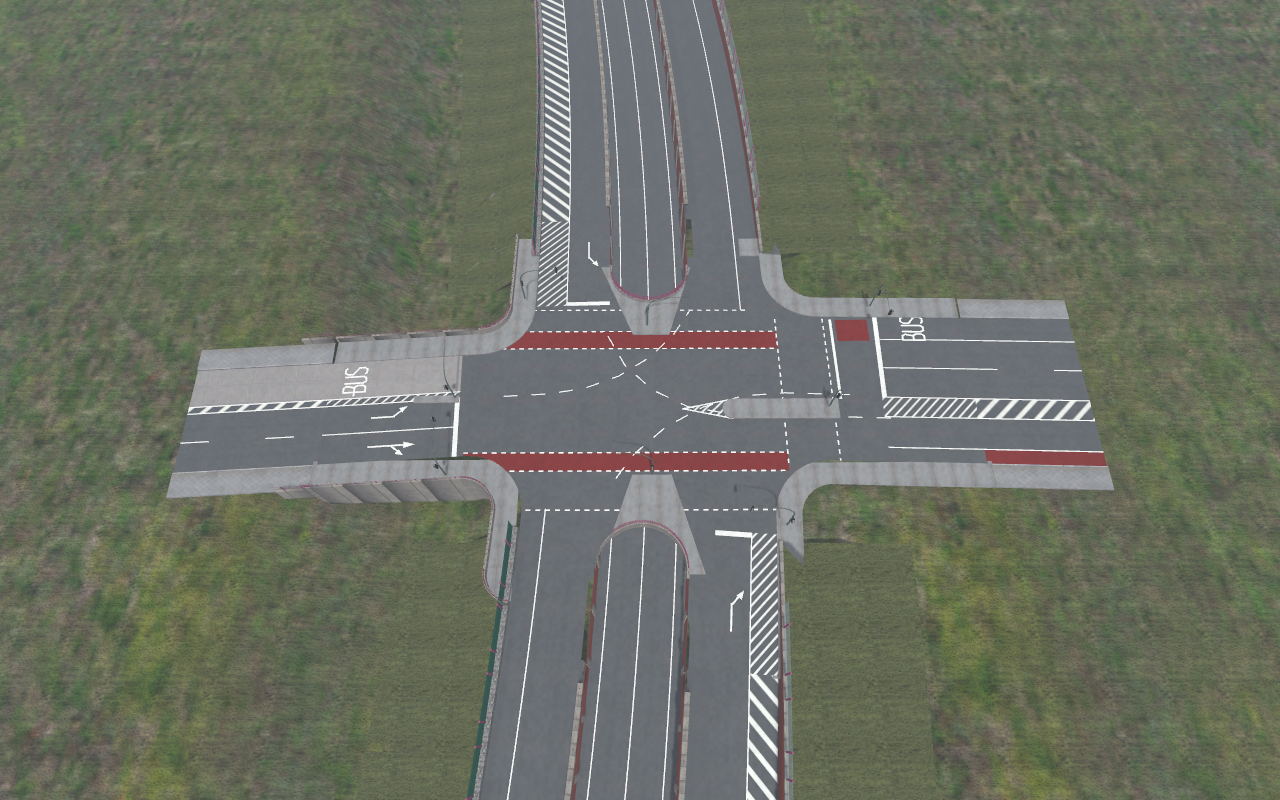
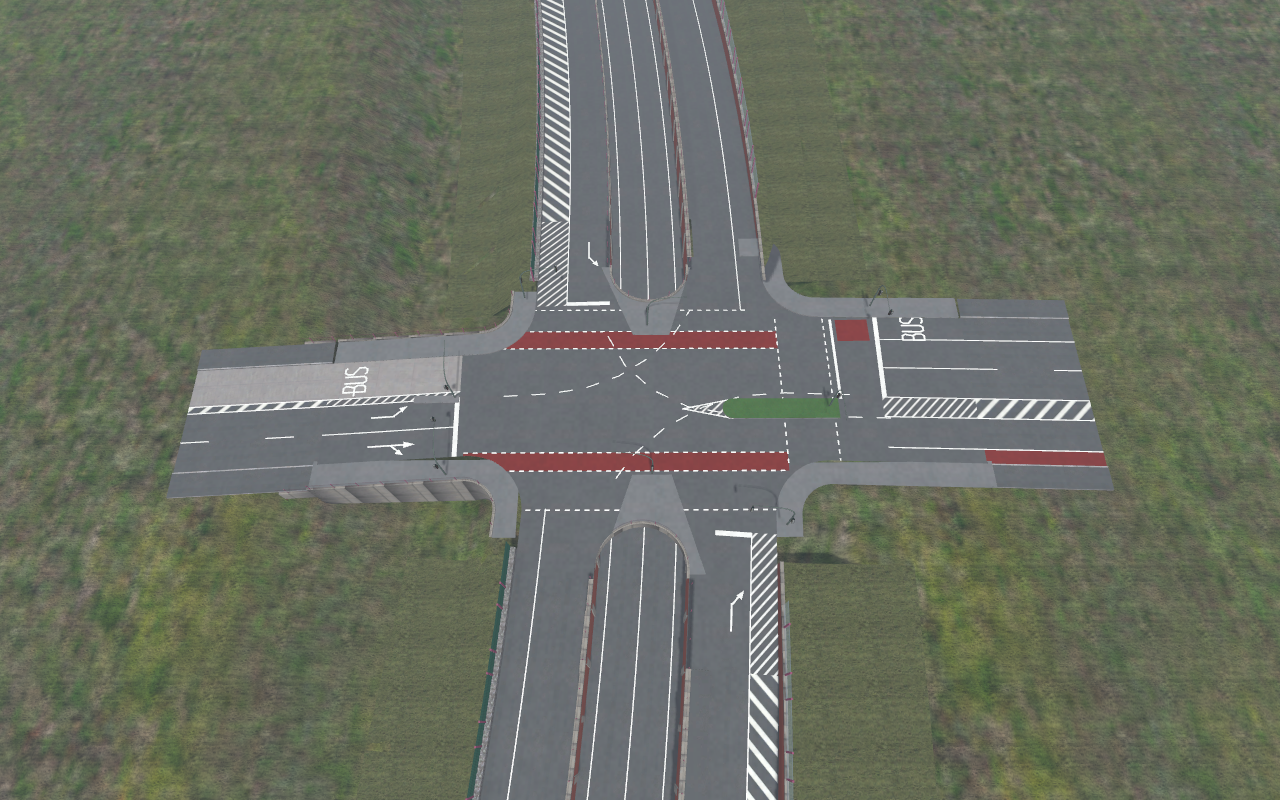
Sonderbau Ring: Rampenenden an der Kreuzung repariert, Stabgelaender, Gehwege/Inseln nach Fotos
Trennwaende behalten bis zum Trogende Bruestung und Gelaender auf Hoehe der Kreuzung, Kreuzungsflaeche reicht bis an
die Trogwand, Gehwege an den Ecken enden an den Rampenwaenden; rosa Stabgelaender auf niedriger Kante (Trog, Ecken,
Bahnbruecke); Gehwege und Inseln asphaltiert, Verkehrsinsel Ost bepflanzt.

diff --git a/omsigen/sonderbau_ring.py b/omsigen/sonderbau_ring.py
@@ -35,10 +35,11 @@ SCHRITT = 2.0
 STUECK = 40.0                                          # m je Wand-Objekt
 
 TEX = {'beton': 'betonwand1.bmp', 'klinker': 'AB_klinker.bmp', 'gabionen': 'AB_gabionen.bmp',
-       'lsw_gruen': 'AB_lsw_gruen.bmp', 'glas': 'AB_glas.tga', 'gelaender': 'AB_gelaender.bmp',
+       'lsw_gruen': 'AB_lsw_gruen.bmp', 'glas': 'AB_glas.tga', 'gelaender': 'AB_gelaender.bmp', 'stab': 'AB_stabgelaender.tga',
        'decke': 'AB_beton_dunkel.bmp', 'pflanzen': 'AB_bodendecker.bmp', 'asphalt': 'str_asphdrk.bmp',
        'boden': 'AB_boden.bmp', 'weiss': 'AB_weiss.bmp', 'radfurt': 'AB_radfurt.bmp', 'sperr': 'AB_sperrflaeche.tga',
-       'gehweg': 'str_gehweg02.bmp', 'bord': 'str_side1.bmp', 'busbeton': 'str_betonplatten.bmp'}
+       'gehweg': 'str_gehweg02.bmp', 'bord': 'str_side1.bmp', 'busbeton': 'str_betonplatten.bmp',
+       'gehweg_asphalt': 'AB_gehweg_asphalt.bmp'}
 
 
 # ------------------------------------------------------------------ Geometrie-Helfer
@@ -108,6 +109,25 @@ def band(mesh, key, unten, oben, normale, s0, tex=(2.0, 1.0)):
         sa, sb = s0[i], s0[i + 1]
         mesh.quad(key, [a, b, c, d], [(sa / tex[0], a[2] / tex[1]), (sb / tex[0], b[2] / tex[1]),
                                       (sb / tex[0], c[2] / tex[1]), (sa / tex[0], d[2] / tex[1])], normale[i])
+
+
+def stabgelaender(mesh, p0, p1, z0, z1, hoehe=1.0, u0=0.0, pfosten=2.5):
+    """Stabgelaender wie am Ring (rosa, senkrechte Staebe, Holm oben): eine durchscheinende Flaeche von p0 nach p1
+    (Fuss z0/z1, je (x, y) im Objektrahmen), Pfosten alle `pfosten` m. u0: Laenge davor (Staebe laufen durch)"""
+    p0, p1 = np.asarray(p0, float)[:2], np.asarray(p1, float)[:2]
+    L = float(np.linalg.norm(p1 - p0))
+    if L < 1e-3:
+        return
+    n = np.array([p1[1] - p0[1], p0[0] - p1[0]]) / L
+    q = [(p0[0], p0[1], z0), (p1[0], p1[1], z1), (p1[0], p1[1], z1 + hoehe), (p0[0], p0[1], z0 + hoehe)]
+    mesh.quad('stab', q, [(u0, 0), (u0 + L, 0), (u0 + L, 1), (u0, 1)], (n[0], n[1], 0), beidseitig=True)
+    k0 = int(np.ceil(u0 / pfosten))
+    while k0 * pfosten <= u0 + L:
+        f = (k0 * pfosten - u0) / L
+        c = p0 + (p1 - p0) * f
+        zf = z0 + (z1 - z0) * f
+        kasten(mesh, 'gelaender', c[0] - 0.03, c[0] + 0.03, c[1] - 0.03, c[1] + 0.03, zf, zf + hoehe + 0.02)
+        k0 += 1
 
 
 def kasten(mesh, key, x0, x1, y0, y1, z0, z1, uvs=4.0):
@@ -231,7 +251,7 @@ def fuge(e, seite):
 
 def im_knoten(e):
     """Station im Bereich der Ludwigsallee (dort keine Aussenwaende, die Kreuzung liegt darueber)"""
-    return -280.0 <= e['p'][1] <= -247.0          # dort beginnen die Eckbruestungen des Kreuzungsobjekts
+    return -281.0 <= e['p'][1] <= -252.0          # dort beginnen die gerundeten Ecken des Kreuzungsobjekts
 
 
 def aussen(e, seite):
@@ -269,7 +289,9 @@ def trennwand(roh, seite, o, platte=None):
         z = e[seite]['z']
         if unter(e):
             q = welt(e, t, 0)
-            z = min(z, float(platte(q[0], q[1])) - 0.1)
+            zp = float(platte(q[0], q[1]))
+            # unter der Decke darunter; davor/dahinter steht die Bruestung auf der Kreuzungsflaeche (Trogrand)
+            z = min(z, zp - 0.1) if e['unter_decke'] else zp + 0.05
         lauf.append((e, t, z))
     s_ges = 0.0
     letzte = None
@@ -293,23 +315,16 @@ def trennwand(roh, seite, o, platte=None):
                [(s_ges / 2, za), ((s_ges + laenge) / 2, zb), ((s_ges + laenge) / 2, kappe_b - 0.4), (s_ges / 2, kappe_a - 0.4)], n_ring)
         m.quad('beton', [p(ea, ri_a, kappe_a - 0.4), p(eb, ri_b, kappe_b - 0.4), p(eb, ri_b, kappe_b), p(ea, ri_a, kappe_a)],
                [(s_ges / 4, 0), ((s_ges + laenge) / 4, 0), ((s_ges + laenge) / 4, 0.1), (s_ges / 4, 0.1)], n_ring)
-        if not (ea['unter_decke'] and eb['unter_decke']) and not (unter(ea) or unter(eb)):
-            # Bruestung 0,5 m ueber der Rampe, Rueckseite zur Rampe, darauf Gelaender bis 1,1 m
-            br_a, br_b = kappe_a + 0.5, kappe_b + 0.5
+        if not (ea['unter_decke'] or eb['unter_decke']):
+            # Bruestung (niedrige Betonkante) ueber der Rampe, darauf das Stabgelaender (Fotos)
+            br_a, br_b = kappe_a + 0.25, kappe_b + 0.25
             m.quad('beton', [p(ea, ri_a, kappe_a), p(eb, ri_b, kappe_b), p(eb, ri_b, br_b), p(ea, ri_a, br_a)],
                    [(s_ges / 4, 0), ((s_ges + laenge) / 4, 0), ((s_ges + laenge) / 4, 0.25), (s_ges / 4, 0.25)], n_ring)
             m.quad('beton', [p(ea, ra_a, kappe_a - 0.2), p(eb, ra_b, kappe_b - 0.2), p(eb, ra_b, br_b), p(ea, ra_a, br_a)],
                    [(s_ges / 4, 0), ((s_ges + laenge) / 4, 0), ((s_ges + laenge) / 4, 0.3), (s_ges / 4, 0.3)], -n_ring)
             m.quad('beton', [p(ea, ri_a, br_a), p(eb, ri_b, br_b), p(eb, ra_b, br_b), p(ea, ra_a, br_a)],
                    [(0, 0), (laenge / 4, 0), (laenge / 4, 0.1), (0, 0.1)], (0, 0, 1))
-            for z0, z1 in ((0.55, 0.6), (0.25, 0.29)):
-                m.quad('gelaender', [p(ea, ta, br_a + z0), p(eb, tb, br_b + z0), p(eb, tb, br_b + z1), p(ea, ta, br_a + z1)],
-                       [(0, 0), (1, 0), (1, 1), (0, 1)], n_ring, beidseitig=True)
-            for k in range(int(s_ges // 2.5) + 1, int((s_ges + laenge) // 2.5) + 1):
-                f = (k * 2.5 - s_ges) / laenge
-                q = welt(ea, ta, 0) * (1 - f) + welt(eb, tb, 0) * f - o
-                zb_ = br_a * (1 - f) + br_b * f
-                kasten(m, 'gelaender', q[0] - 0.03, q[0] + 0.03, q[1] - 0.03, q[1] + 0.03, zb_ - o[2], zb_ + 0.6 - o[2])
+            stabgelaender(m, p(ea, ta, 0), p(eb, tb, 0), br_a - o[2], br_b - o[2], 1.0, s_ges)
         # Pfeiler alle 5 m (Beton, 0,15 m vor der Wand, 0,6 m breit)
         for k in range(int(s_ges // 5) + 1, int((s_ges + laenge) // 5) + 1):
             f = (k * 5 - s_ges) / laenge
@@ -469,20 +484,15 @@ def bahnbruecke(st, gel, o, z_platte=None):
     zb = z_bei(a1) - 0.05
     for b, sgn in ((bl, 1), (br, -1)) if a1 > a0 + 0.5 else ():
         bi = b - sgn * 0.3
-        m.quad('beton', [W(a0, b, za - dicke), W(a1, b, zb - dicke), W(a1, b, zb + 1.1), W(a0, b, za + 1.1)],
-               [(0, 0), ((a1 - a0) / 4, 0), ((a1 - a0) / 4, 0.6), (0, 0.6)], N(0, sgn, 0))
-        m.quad('beton', [W(a0, bi, za), W(a1, bi, zb), W(a1, bi, zb + 1.1), W(a0, bi, za + 1.1)],
-               [(0, 0), ((a1 - a0) / 4, 0), ((a1 - a0) / 4, 0.3), (0, 0.3)], N(0, -sgn, 0))
-        m.quad('beton', [W(a0, b, za + 1.1), W(a1, b, zb + 1.1), W(a1, bi, zb + 1.1), W(a0, bi, za + 1.1)],
+        kante = 0.3
+        m.quad('beton', [W(a0, b, za - dicke), W(a1, b, zb - dicke), W(a1, b, zb + kante), W(a0, b, za + kante)],
+               [(0, 0), ((a1 - a0) / 4, 0), ((a1 - a0) / 4, 0.4), (0, 0.4)], N(0, sgn, 0))
+        m.quad('beton', [W(a0, bi, za), W(a1, bi, zb), W(a1, bi, zb + kante), W(a0, bi, za + kante)],
+               [(0, 0), ((a1 - a0) / 4, 0), ((a1 - a0) / 4, 0.1), (0, 0.1)], N(0, -sgn, 0))
+        m.quad('beton', [W(a0, b, za + kante), W(a1, b, zb + kante), W(a1, bi, zb + kante), W(a0, bi, za + kante)],
                [(0, 0), ((a1 - a0) / 4, 0), ((a1 - a0) / 4, 0.1), (0, 0.1)], N(0, 0, 1))
         bm = (b + bi) / 2
-        for z0 in (1.6, 2.1):
-            m.quad('gelaender', [W(a0, bm, za + z0), W(a1, bm, zb + z0), W(a1, bm, zb + z0 + 0.06), W(a0, bm, za + z0 + 0.06)],
-                   [(0, 0), (1, 0), (1, 1), (0, 1)], N(0, sgn, 0), beidseitig=True)
-        for a in np.arange(a0 + 1.0, a1, 2.0):
-            q = W(a, bm, 0)
-            zz = z_bei(a) - 0.05
-            kasten(m, 'gelaender', q[0] - 0.04, q[0] + 0.04, q[1] - 0.04, q[1] + 0.04, zz + 1.1 - o[2], zz + 2.16 - o[2])
+        stabgelaender(m, W(a0, bm, 0), W(a1, bm, 0), za + kante - o[2], zb + kante - o[2], 1.0, a0)
     # Widerlager: Waende von der Sohle bis unter die Platte, zur Bahn hin Klinker
     a1, zb = a1_voll, zb_alt
     for a, sgn, z in ((a0, 1, za), (a1, -1, zb)):
@@ -716,10 +726,20 @@ def texturen(omsi, ziel):
     dg.rectangle([0, 60, 63, 63], fill=(150, 155, 160, 255))
     gl.save(os.path.join(ziel, TEX['glas']))
     Image.new('RGB', (8, 8), (150, 82, 110)).save(os.path.join(ziel, TEX['gelaender']))
+    # Stabgelaender (1 m x 1 m je Textur): Holm oben, Gurt unten, senkrechte Staebe alle 12,5 cm, sonst durchsichtig
+    st = np.zeros((128, 128, 4), np.uint8)
+    farbe = (156, 88, 112, 255)
+    st[0:7, :] = farbe
+    st[118:124, :] = farbe
+    st[:, [x for x in range(128) if x % 16 in (7, 8)]] = farbe
+    Image.fromarray(st, 'RGBA').save(os.path.join(ziel, TEX['stab']))
     # Bodendecker im Pflanzstreifen
     p = (rng.normal(0, 18, (128, 128, 3)) + (70, 105, 55)).clip(0, 255).astype(np.uint8)
     Image.fromarray(p).save(os.path.join(ziel, TEX['pflanzen']))
     shutil.copy(os.path.join(marcel, 'str_asphdrk.bmp'), os.path.join(ziel, TEX['asphalt']))
+    # Gehweg-Asphalt: etwas heller als die Fahrbahn
+    g = np.asarray(Image.open(os.path.join(marcel, 'str_asphdrk.bmp')).convert('RGB'), float) * 1.18 + 8
+    Image.fromarray(g.clip(0, 255).astype(np.uint8)).save(os.path.join(ziel, TEX['gehweg_asphalt']))
     for t in ('str_gehweg02.bmp', 'str_side1.bmp', 'str_betonplatten.bmp'):
         shutil.copy(os.path.join(marcel, t), os.path.join(ziel, t))
     Image.new('RGB', (8, 8), (235, 235, 230)).save(os.path.join(ziel, TEX['weiss']))

diff --git a/omsigen/ring_kreuzung.py b/omsigen/ring_kreuzung.py
@@ -43,8 +43,10 @@ RAND = {2: ('y', -254.55), 5: ('y', -278.2)}       # Ende der Markierungen der A
 # Ampelmasten: Arm -> (rechts der Zufahrt, links der Zufahrt)
 MASTEN = {0: ((1063.6, -274.6), (1063.6, -265.9)), 1: ((1070.9, -253.4), (1084.8, -256.9)),
           3: ((1110.6, -254.7), (1104.6, -267.15)), 4: ((1098.0, -281.0), (1085.2, -275.3))}
-GEHWEG_ZONEN = [box(1049.9, -261.6, 1072.6, -244.0), box(1096.0, -256.6, 1120.1, -244.0),
-                box(1049.9, -290.0, 1071.6, -272.9), box(1096.2, -294.0, 1120.1, -273.3)]
+# Gehwege an den Ecken: entlang der Ludwigsallee und um die Ecke bis an die Rampenwaende (dort enden sie an der
+# Aussenwand der Rampe, sonderbau_ring.im_knoten)
+GEHWEG_ZONEN = [box(1049.9, -261.6, 1072.6, -252.0), box(1096.0, -256.6, 1120.1, -240.0),
+                box(1049.9, -281.0, 1071.6, -272.9), box(1096.2, -281.0, 1120.1, -273.3)]
 BRUESTUNG_ZONEN = [0, 2]                           # Ecken ueber dem Bahneinschnitt (NW, SW)
 GEHWEG_BREITE = 2.6
 
@@ -289,7 +291,7 @@ def art(h_rein, h_raus):
 # ------------------------------------------------------------------ Bauen
 def bauen(achse, K, strassen, arme_roh, gel, verbindungen, phasen, pfeile, rampen_namen):
     """-> dict(mesh, pfade, regeln, ampel, signale, flaechen, z, ursprung, ...)"""
-    from .sonderbau_ring import Mesh, kasten
+    from .sonderbau_ring import Mesh, kasten, stabgelaender
     arme = [Arm(i, a) for i, a in enumerate(arme_roh)]
     zf = hoehenflaeche(arme)
     T = trog(achse, K)
@@ -305,9 +307,9 @@ def bauen(achse, K, strassen, arme_roh, gel, verbindungen, phasen, pfeile, rampe
         t0, t1 = st['versatz'] + teile[0][1], st['versatz'] + teile[-1][2]
         # bis an die Trennwand (der Trennstreifen zwischen Wand und Spur gehoert zur Flaeche)
         if t_mitte > 0:
-            t0 = min(t0, float(K['ring_w'].t([s_ende])[0]) + 0.25)
+            t0 = min(t0, float(K['ring_w'].t([s_ende])[0]))
         else:
-            t1 = max(t1, float(K['ring_o'].t([s_ende])[0]) - 0.25)
+            t1 = max(t1, float(K['ring_o'].t([s_ende])[0]))
         s_innen = 131.0
         rampen[a.name] = (s_ende, s_innen, t0, t1)
     F = flaechen(achse, arme, T, rampen)
@@ -322,8 +324,10 @@ def bauen(achse, K, strassen, arme_roh, gel, verbindungen, phasen, pfeile, rampe
             m.dreieck(key, P, [(x / uv_m, y / uv_m) for x, y in c], (0, 0, 1))
 
     flaeche('asphalt', F['fahrbahn'], ASPH_H, 4.0)
-    flaeche('gehweg', F['gehweg'], WALK_H, 2.0)
-    flaeche('gehweg', F['inseln'], WALK_H, 2.0)
+    insel_o = F['inseln'].intersection(box(INSEL_O[0][0] - 1.5, INSEL_O[0][1], INSEL_O[1][0], INSEL_O[1][1]))
+    flaeche('gehweg_asphalt', F['gehweg'], WALK_H, 4.0)
+    flaeche('gehweg_asphalt', F['inseln'].difference(insel_o), WALK_H, 4.0)
+    flaeche('pflanzen', insel_o, WALK_H + 0.03, 2.0)
     # Bordsteine: wo Gehweg/Insel an die Fahrbahn stoesst
     fb = F['fahrbahn'].buffer(0.05)
     for erhoeht in _polys(unary_union([F['gehweg'], F['inseln']])):
@@ -364,10 +368,12 @@ def bauen(achse, K, strassen, arme_roh, gel, verbindungen, phasen, pfeile, rampe
             # nur der Halbkreis (Trogende), nicht die geraden Trogwaende
             if insel.contains(mitte) and abs(mitte.distance(Point(T[name]['mitte'])) - T[name]['r']) < 0.3:
                 linien.append((a_, b_, 'trog'))
+    u_lauf = 0.0
     for a_, b_, wo in linien:
         L = math.dist(a_, b_)
         if L < 1e-3:
             continue
+        u_lauf += L
         za, zb = float(zf(*a_)) + WALK_H, float(zf(*b_)) + WALK_H
         n = np.array([b_[1] - a_[1], a_[0] - b_[0]]) / L
         # Normale nach aussen (weg vom Gehweg/von der Insel)
@@ -380,25 +386,15 @@ def bauen(achse, K, strassen, arme_roh, gel, verbindungen, phasen, pfeile, rampe
             unten_a, unten_b = min(ga, za) - 0.5, min(gb, zb) - 0.5
         else:
             unten_a, unten_b = za - 1.2, zb - 1.2                     # Trogrand: bis unter die Deckenkante
-        hoch = 0.9 if wo == 'aussen' else 0.2                          # Trogrand: niedrige Kante, darauf das Gelaender
+        hoch = 0.25                                                     # niedrige Betonkante, darauf das Stabgelaender
+        u0 = u_lauf - L
         m.quad('beton', [A(a_, 0.25, unten_a), A(b_, 0.25, unten_b), A(b_, 0.25, zb + hoch), A(a_, 0.25, za + hoch)],
-               [(0, 0), (L / 4, 0), (L / 4, 0.4), (0, 0.4)], (n[0], n[1], 0))
+               [(u0 / 4, unten_a / 4), (u_lauf / 4, unten_b / 4), (u_lauf / 4, (zb + hoch) / 4), (u0 / 4, (za + hoch) / 4)], (n[0], n[1], 0))
         m.quad('beton', [A(b_, 0.0, zb), A(a_, 0.0, za), A(a_, 0.0, za + hoch), A(b_, 0.0, zb + hoch)],
                [(0, 0), (L / 4, 0), (L / 4, 0.2), (0, 0.2)], (-n[0], -n[1], 0))
         m.quad('beton', [A(a_, 0.0, za + hoch), A(b_, 0.0, zb + hoch), A(b_, 0.25, zb + hoch), A(a_, 0.25, za + hoch)],
                [(0, 0), (L / 4, 0), (L / 4, 0.06), (0, 0.06)], (0, 0, 1))
-        # Pfosten alle 2 m, zwei Holme
-        for k in range(int(L // 2.0) + 1):
-            f = (k * 2.0 + 0.5) / L if L > 0.6 else 0.5
-            if f > 1:
-                break
-            q = (a_[0] + (b_[0] - a_[0]) * f, a_[1] + (b_[1] - a_[1]) * f)
-            zq = za + (zb - za) * f + hoch
-            c = A(q, 0.12, 0)
-            kasten(m, 'gelaender', c[0] - 0.03, c[0] + 0.03, c[1] - 0.03, c[1] + 0.03, zq, zq + (0.5 if wo == 'aussen' else 0.9))
-        for z0 in ((0.45, 0.1) if wo == 'aussen' else (0.85, 0.45)):
-            m.quad('gelaender', [A(a_, 0.12, za + hoch + z0), A(b_, 0.12, zb + hoch + z0), A(b_, 0.12, zb + hoch + z0 + 0.05), A(a_, 0.12, za + hoch + z0 + 0.05)],
-                   [(0, 0), (1, 0), (1, 1), (0, 1)], (n[0], n[1], 0), beidseitig=True)
+        stabgelaender(m, A(a_, 0.12, 0), A(b_, 0.12, 0), za + hoch, zb + hoch, 1.0, u0)
     # ---------------------------------------------------------- Markierungen (2 cm ueber der Fahrbahn)
     weiss, rot, sperr, beton = [], [], [], []
     for a in arme:

diff --git a/editor/src/sonderbau.rs b/editor/src/sonderbau.rs
@@ -303,12 +303,17 @@ mod tests {
                 (DVec3::new(1072.0, -230.0, 11.5), 180.0, -5.0, 18.0, "rampe_west"),
                 (DVec3::new(1084.0, -265.0, 6.0), 200.0, -40.0, 120.0, "oben"),
                 (DVec3::new(1068.0, -390.0, 6.0), 200.0, -35.0, 70.0, "sued_ende"),
+                (DVec3::new(1074.0, -165.0, 6.0), 165.0, -40.0, 60.0, "nord_ende"),
+                (DVec3::new(1074.0, -247.0, 10.0), 160.0, -45.0, 22.0, "rampe_nw"),
+                (DVec3::new(1094.0, -249.0, 10.5), 200.0, -45.0, 22.0, "rampe_no"),
+                (DVec3::new(1074.0, -282.0, 10.0), 340.0, -45.0, 22.0, "rampe_sw"),
+                (DVec3::new(1094.0, -284.0, 10.0), 20.0, -45.0, 22.0, "rampe_so"),
+                (DVec3::new(1076.0, -150.0, 5.5), 165.0, -6.0, 18.0, "nord_einfahrt"),
                 (DVec3::new(1084.0, -266.0, 11.0), 0.0, -65.0, 75.0, "kreuzung_oben"),
                 (DVec3::new(1080.0, -266.0, 12.0), 95.0, -6.0, 45.0, "kreuzung_west"),
                 (DVec3::new(1075.0, -262.0, 12.0), 180.0, -8.0, 35.0, "kreuzung_rampe"),
                 (DVec3::new(1057.0, -269.5, 10.5), 90.0, -75.0, 16.0, "zufahrt_west"),
                 (DVec3::new(1085.0, -252.0, 10.5), 180.0, -55.0, 22.0, "insel_nord"),
-                (DVec3::new(1085.0, -247.0, 9.0), 180.0, -88.0, 14.0, "trog_nord_oben"),
                 (DVec3::new(1110.0, -261.0, 11.5), 270.0, -75.0, 16.0, "zufahrt_ost"),
                 (DVec3::new(1070.0, -385.0, 6.5), 10.0, -4.0, 30.0, "sued_einfahrt"),
                 (DVec3::new(1056.0, -266.0, 6.0), 0.0, -12.0, 35.0, "bahnbruecke"),

diff --git a/omsigen/ring_strassen.py b/omsigen/ring_strassen.py
@@ -36,7 +36,7 @@ LUDWIG = {
 def teil(art, breite, richtung='vor', belag=None):
     t = dict(art=art, breite=round(breite, 3), richtung=richtung)
     t['belag'] = belag or {'fahrspur': 'asphalt', 'busspur': 'asphalt', 'radfahrstreifen': 'rot', 'parkstreifen': 'asphalt',
-                           'gehweg': 'platten'}[art]
+                           'gehweg': 'asphalt'}[art]          # Gehwege am Ring/an der Ludwigsallee: Asphalt (OSM, Fotos)
     return t
 
 
